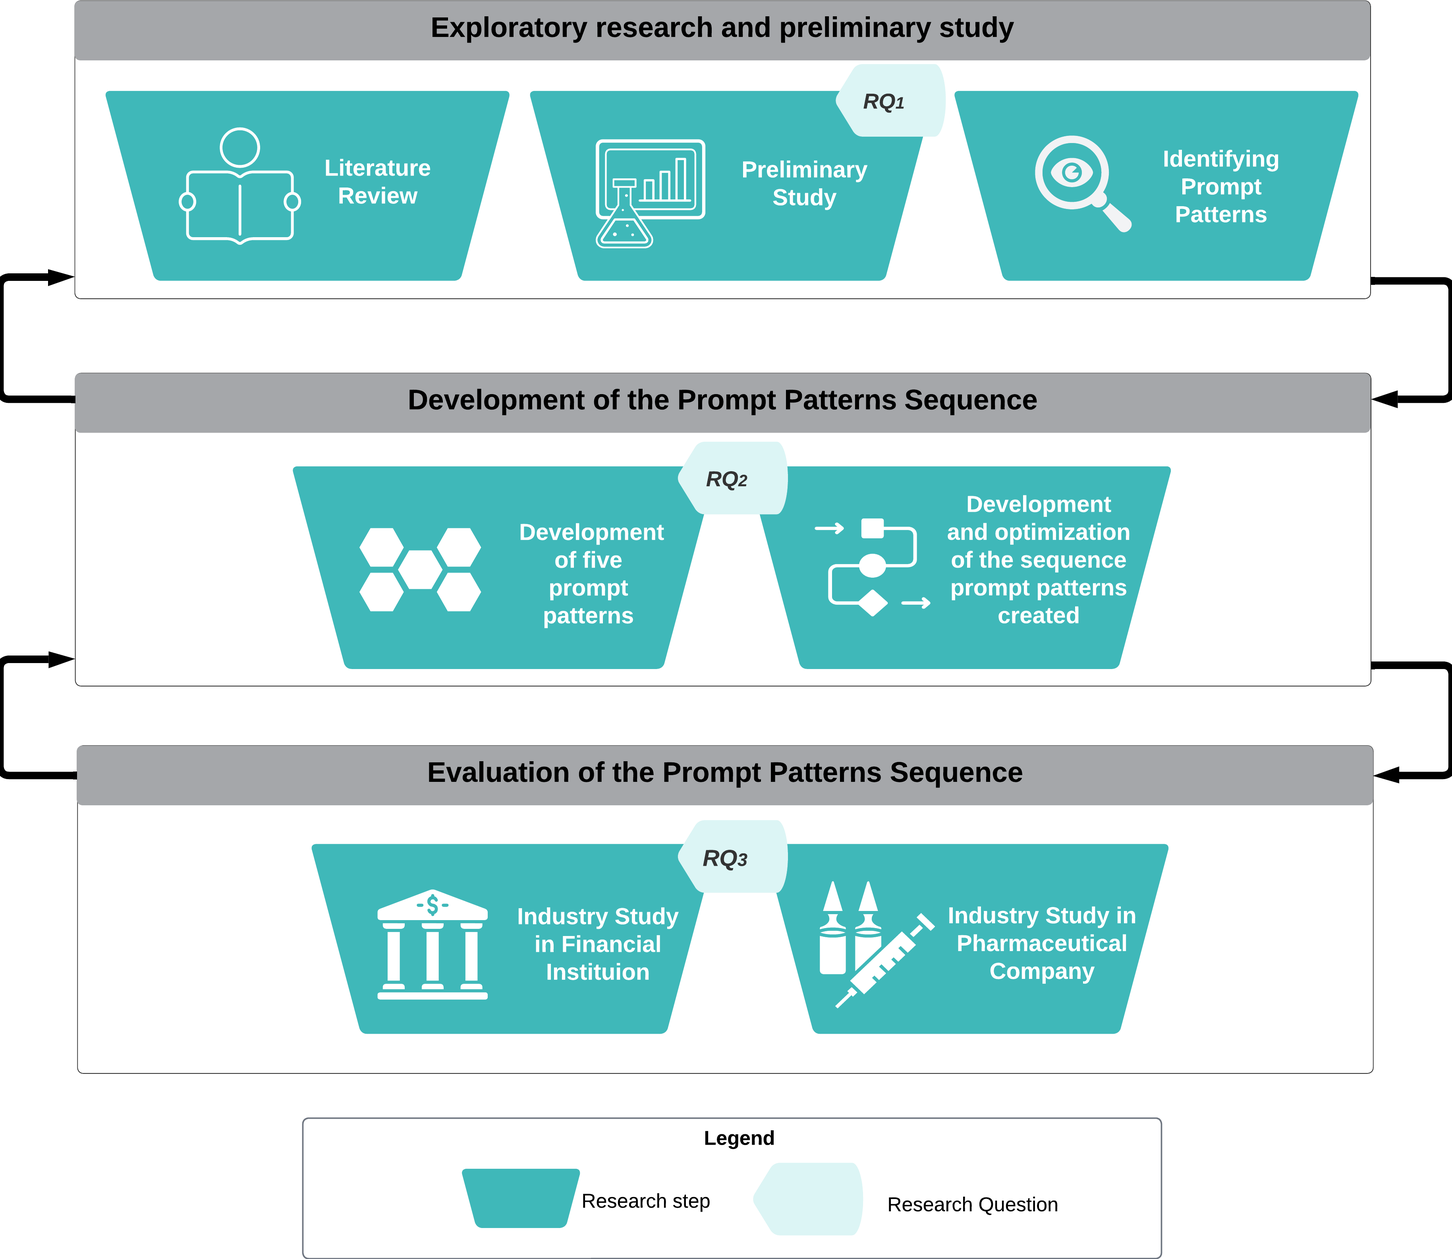
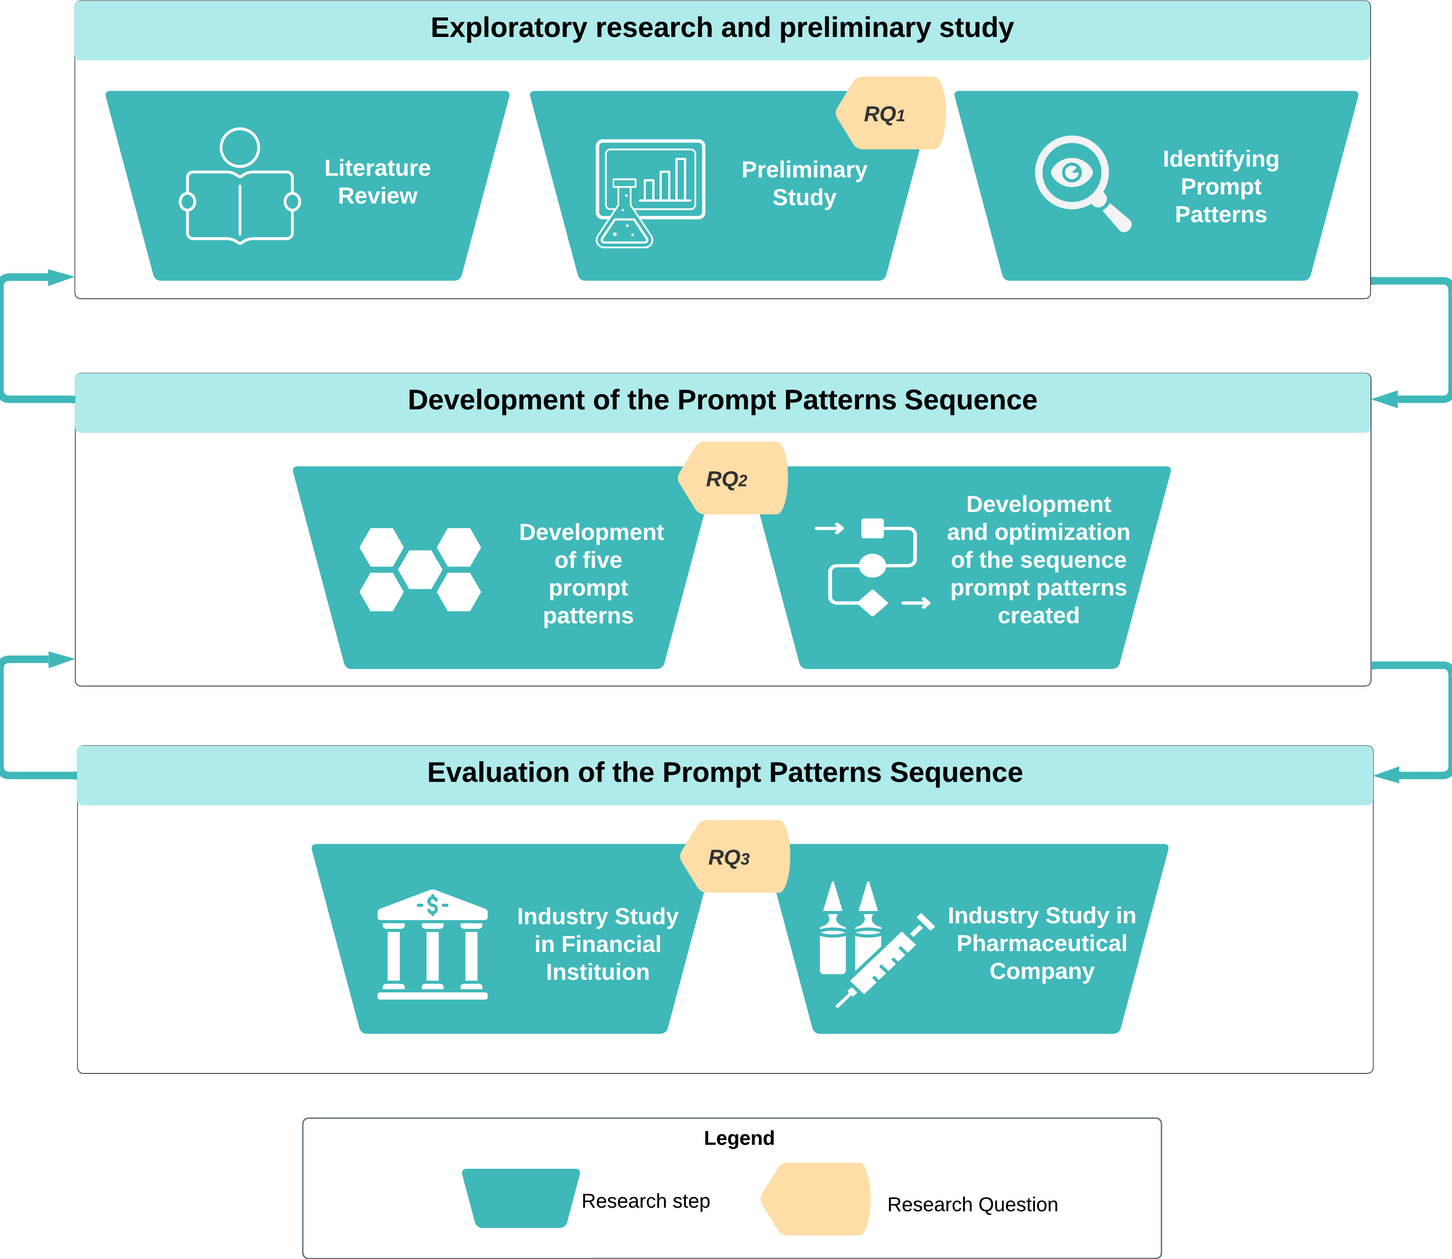
Conclusion

diff --git a/textual/1-introduction.tex b/textual/1-introduction.tex
@@ -57,82 +57,57 @@ The goal of this dissertation is: \textbf{\textit{Evaluating Generative Artifici
 \end{quote}
 
 \section{Methodology}\label{sec:methodology}
-For this master's project, two parts of research are conducted. The first study will explore using pre-trained generative AI tools to automatically select design patterns in a specific context. This will help us better understand how this new technology behaves when presented with a problem. The second study will use multiple case studies to analyze companies' effectiveness in real-world scenarios.
+The study's methodology is designed to assess the use of generative AI tools, specifically GPT models, to enhance decision-making processes in software architecture. The methodology consists of several phases, each contributing to evaluating generative AI tools' practical applicability and effectiveness in real-world scenarios. Figure~\ref{fig-methodology} provides an overview of the methodology linking the research questions.
 
-The literature review played a pivotal role in shaping the direction of our research project, inspiring the approach for both phases of investigation. We gained valuable insights into the field's current state by delving into relevant literature on design decision-making, design patterns, and AI-assisted tools. This comprehensive understanding of the subject helped us identify useful generative AI tools and provided the groundwork for the concept of automatic design pattern selection.
-
-We conducted a preliminary study to determine the effectiveness of AI tools in helping developers make design decisions. Specifically, we utilized ChatGPT to assess its ability to provide accurate answers and ensure that its suggestions included all required elements for a given pattern. Additionally, we tested whether incorrect responses from the AI could potentially mislead developers.
-
-Based on the positive results from our preliminary study, we plan to move forward with multiple case studies in five distinct phases, shown in Figure~\ref{fig-methodology}.
-
-% Inicio Figura1 ---------------------------
 \begin{figure}[ht]
-\caption{Overview of the methodology adopted for AI-Assisted Design Decision Research.}
+\caption{Overview of the methodology.}
 \centering
 \label{fig-methodology}
-\includegraphics[width=0.97 \textwidth]{figures/methodology.png}
+\includegraphics[width=1.0 \textwidth]{figures/methodology.png}
 \objectsource{\objectsourceauthor}
 \end{figure}
-% Fim Figura1 ---------------------------
 
 
-\begin{enumerate}
-    
-\item \textbf{Recruitment} - in this phase, we aim to select at least three companies to participate in our study. The selection process will prioritize diversity across various businesses, providing a wide range of perspectives and enhancing our results.
 
-\item \textbf{Design Decision Collection} - focused on Collecting Design Decisions We will identify a critical decision related to architecture or software for each participating company. This decision must be an essential and challenging one to test the capabilities of language models accurately. Together with the enterprise's software architect, we will formulate a question encompassing an application scenario and all the significant factors influencing the decision-making process.
+The research begins with an exploratory phase that examines the utility of generative AI tools in identifying and selecting design patterns. This phase involves a literature review to gather insights into existing design pattern selection methodologies and the integration of AI tools into these processes. A preliminary study using ChatGPT to assess its accuracy and efficiency in suggesting design patterns applicable to various software design challenges is conducted. This initial exploration is crucial for developing strategies to maximize the potential of AI tools in decision-making. Additionally, identifying prompt patterns that can guide the AI tool's response generation to the most relevant and contextually appropriate design patterns is a crucial aspect of directing AI capabilities in a way that aligns with specific architectural needs.
 
-\item  \textbf{Specification Capture} - we will Capture Specifications using prompt engineering techniques to formulate questions for three AI tools that use Large Language Models. The responses generated by the language models will be carefully evaluated, and the relevant materials will be prepared for further analysis and presentation.
+After gathering information in the initial phase, the research moves on to creating and refining prompt patterns. Five specific prompt patterns are developed to address common queries during software architectural decision-making. These patterns aim to capture the complexities of the design issues. It is essential to optimize the sequence in which these prompt patterns are presented to the AI tool. This optimization ensures that responses are accurate and logically organized, making understanding the AI's guidance easier.
 
-\item  \textbf{Solution Presentation} - focuses on presenting the solution. Proposed solutions will be presented to the company's architect in an interview format. We will measure the solution's suitability for the system, assessing how the proposed solution could be implemented. This feedback will be invaluable in refining our understanding of the language model's capability and effectiveness in real-world scenarios.
-    
-\item \textbf{Data Analysis} - we will analyze the data. During this step, we will apply Open Coding qualitative analysis techniques to analyze the three AI tools' responses, collected specifications, and interview feedback on the proposed solution. This rigorous analysis will elucidate patterns, highlight discrepancies, and reveal insights into the usefulness and applicability of language models in architectural and software design decision-making.
-\end{enumerate}
-
-\MyParaBold{Advantages of This Approach Methodology:}
-\begin{enumerate}
-    \item \textbf{Bridging Theoretical Exploration and Practical Application:} This methodology offers insights into how emerging technologies could enhance architectural decision-making by speculatively evaluating the impact of generative AI and prompt patterns on past decisions. This bridges the gap between theory and practice, providing academic and practical value.
-
-    \item \textbf{Dynamic Engagement:} Unlike traditional methodologies that rely heavily on documentation, this approach allows for a more interactive and reflective examination of past decisions, enriching the analysis with hypothetical scenarios that blend real-world experiences with theoretical possibilities.
-
-    \item \textbf{Prompt Patterns Integration:} The focus on AI-generated prompt patterns emphasizes the study's contribution to discussions about integrating emerging technologies into architectural practices. This advances academic understanding and is a practical guide for incorporating new tools into decision-making processes.
-    
-    \item \textbf{Flexibility and Innovation:} This methodology showcases the flexibility of empirical research methods in software engineering by adapting and combining elements from different approaches to suit specific research objectives, highlighting the potential of empirical research in the field.  
-\end{enumerate}
-
-
+The final phase evaluates the effectiveness of the sequence of prompt patterns developed through two industry studies in different sectors (financial institutions and pharmaceuticals) to assess this approach's practical benefits and implementation in real-world contexts. These studies are essential in validating theoretical models against real industry challenges and scenarios. Iterative validation of research steps against designed research questions anchors each phase within the study objectives, ensuring that the methodology remains focused and aligned with the overall research objectives.
 
 \section{Originality}\label{sec:originality}
-The originality of this master's work lies in exploring and evaluating the potential of AI-assisted tools in software design decision-making. Here, the research emphasizes assessing how software development professionals perceive the use of AI tools within the software development cycle; despite the broad integration of AI in various aspects of software engineering, it has yet to be examined thoroughly in this specific context.
+Five new architectural prompt patterns, sensitive to context, were developed and linked to a sequence of prompt patterns. Each step in this sequence is an architectural situation that addresses a given problem and assists architects with information for their architectural decisions. This approach can expand the usefulness of generative AI beyond its conventional applications.
 
-This work also stands out for its focus on evaluating unsupervised AI tools, such as ChatGPT, through the preliminary study to design pattern suggestions. Most current pattern selection approaches require specialized training or knowledge. However, the preliminary study approach employs AI tools that do not require such stringent prerequisites. This perspective offers relatively new insight into the field of software engineering.
-
-Furthermore, this research analyses the interaction of AI and human experience, where both elements combine to create a unique collaborative approach to decision-making in software design. This work promises to shed light on the potential synergies and challenges arising from this combination, a facet of software development that has not been explored in great detail before.
-
-The empirical nature of this research provides an additional layer of originality as it sets out to offer valuable evidence on the productivity of software architects when they engage with AI tools. Considering the relative scarcity of empirical data in the domain of AI in software design decision-making, its study can fill a significant gap.
-
-Finally, its focus on understanding the sociotechnical aspects of AI architecture brings perspective to the challenges of automated and collaborative software engineering. By assigning the same importance to software design and development's social and technical aspects, this work is expected to offer critical insights that need to be more widely addressed in the existing literature.
+An existing gap in work involving generative AI in architectural decision-making is the participation of the Architect in research. This research conducted industry studies that collect feedback from software architects, providing a practical assessment of the effectiveness and applicability of generative AI decision-making that enriches academic discourse with insights from real-world applications and identifies opportunities to refine AI tools to meet the differentiated needs of software architecture better.
 
 \section{Relevance}\label{sec:relevance}
-\textbf{From an industry perspective}, applying AI-assisted tools for decision-making in software projects promises significant improvements in the software development process. By identifying and recommending appropriate design patterns, software developers can save crucial time and resources, streamlining their workflows and ensuring shorter development cycles and accelerated time-to-market for software products.
+This master's work introduces an innovative approach to integrating generative artificial intelligence (AI), specifically GPT models, into software architectural decision-making. Through developing and applying a sequence of prompt patterns, the study proposes a structured method to guide AI tools to offer design suggestions, aiming to improve quality and efficiency in software development.
 
-This efficiency gain is supported by the subsequent improvement in code quality that these tools promise. Design patterns are vital to ensure code modularity, maintainability, scalability, critical software quality, and robust components. By helping developers select the most suitable patterns for specific scenarios, these AI-assisted tools not only help improve the initial quality of the software product but also simplify its long-term maintenance. A review of the relevant literature and the results of preliminary studies indicate that pattern selection aided by pre-trained generative AI can outperform conventional selection methods in accuracy and efficiency.
+The relevance of this work stands out for its academic and practical contribution, testing and validating the approach in real scenarios and offering valuable insights into the application, effectiveness, and limitations of generative AI tools in software architecture.
 
-Additionally, these tools are invaluable in supporting junior developers. With limited experience in software design, these individuals can significantly benefit from the detailed explanations and solutions offered by AI-assisted tools. Such assistance can accelerate learning, allowing these developers to make informed design decisions early in their careers.
-
-Communication can be more challenging when working remotely due to the lack of face-to-face interaction and possible time zone differences. This can make it difficult to discuss and design decision-making. AI-assisted tools can facilitate this process by recommending appropriate decisions, reducing the need for extensive deliberations, and increasing efficiency.
-
-\textbf{From an academic perspective}.The project bridges the gap between academic theory and practical application, providing valuable insights through real-life exercises and case studies. These insights can be implemented directly into software development to improve decision-making processes. The study also identifies areas where AI tools need improvement, allowing researchers and developers to focus on improving these tools. This research may inspire exploration of other fields where AI can be utilized for complex decision-making tasks like a prompt engineer, leading to broader use of this technology.
+Finally, facilitating the learning and adopting software design patterns is a vital advantage of this work. By simplifying the selection and application of these patterns, the approach can be a valuable educational tool for budding software architects and help development teams incorporate design best practices more effectively and efficiently. This aspect not only promotes continued education within the software development community but also encourages the adoption of innovative practices that can lead to higher-quality software products.
 
 \section{Organization}\label{sec:organization}
-\begin{quote}
-The rest of this document is structured as follows: 
-\end{quote}
 
-\begin{itemize}
-    
-\item Chapter~\ref{ch:literature-review} - Literature Review: This chapter provides valuable information about an overview of Artificial Intelligence, Prompt Engineering for Generative, Few-Shot Learning, and various approaches to selecting design patterns, revealing a gap in the absence of generative AIs to discover such design patterns.
- 
- \item Chapter~\ref{ch:preliminar-study} - The Preliminary Study: This chapter uses pre-trained AI tools to automatically select design patterns in a specific context. It assesses the accuracy of AI-generated responses and their potential to guide developers effectively.
+\MyParaText{The rest of this document is structured as follows:}
 
-\end{itemize}
+\textbf{Chapter~\ref{ch:literature-review} - Literature Review:}
+The literature review covers various topics, from the evolution of AI and large-scale language models to engineering prompts for generative AI and AI tools for developers. It also explores software patterns, including the origin of pattern theory, Gang of Four design patterns, and design pattern selection methods.
+
+\textbf{Chapter~\ref{ch:preliminar-study} - Preliminary Design Pattern Selection Study: }This chapter describes a preliminary study focused on using generative AI tools to select design patterns in a specific context automatically. The study evaluates the accuracy and potential of these tools to effectively guide developers in choosing design patterns.
+
+\textbf{Chapter~\ref{ch:prompt-patterns} - Prompt Approach to Architectural Decisions: } This chapter presents a general description of the proposed approach, detailing the patterns used, the design process, and the specific prompt patterns developed to assist in making software architecture decisions. A fictional scenario demonstrates the application of the prompt pattern sequence.
+
+\textbf{Chapter~\ref{ch:industry-use-cases} - Industry Study: }
+Industrial research investigates the applicability and effectiveness of the prompt pattern sequence approach in real-world scenarios, including a case study at a financial institution. Analysis of the results highlights this approach's practical benefits and implementation in real contexts.
+
+\textbf{Chapter~\ref{ch:conclusion} - Conclusion: }
+The final chapter summarizes the main contributions of the dissertation, including the development of five new prompt patterns, the sequence of prompt patterns to assist in architectural decision-making, and the practical validation of the proposed approach through industry studies. Future work is also discussed, pointing to the need for additional research to explore further the potential of generative AI tools in software architecture.
+
+
+
+
+
+
+
+

diff --git a/textual/6-conclusion.tex b/textual/6-conclusion.tex
@@ -1,4 +1,23 @@
+This chapter concludes the thesis by presenting a comprehensive conclusion and a retrospective of the work, enriched by the answers to the three research questions initially formulated. Initially, we revisit the central research questions and evaluate the results obtained by implementing the Prompt Pattern Sequence. Next, we highlight the main contributions of this study.
+
+The emergence of generative Artificial Intelligence (AI) has brought new opportunities for collaboration between AI tools and software architects. In this context, it is essential to understand how these technologies can be effectively incorporated into the architectural decision-making process and identify their potential and limitations. To this end, this research explored generative AI tools, mainly through a sequence of prompt patterns, to assist software architects in their design decisions.
+
+Answering \textbf{\textit{RQ\textsubscript{1}}}, it was evidenced that generative AI tools can be remarkably efficient and accurate in solving software design problems when guided adequately by prompt patterns(Chapter 3). This effectiveness demonstrates the potential of such tools to be collaboratively incorporated into the decision-making process in software architecture.
+
+Regarding \textbf{\textit{RQ\textsubscript{2}}}, the study developed and evaluated a sequence of prompt patterns that effectively guided AI tools in assisting architectural decisions. The construction and evaluation of the Prompt Pattern Sequence(Chapter 4) were carried out iteratively and incrementally based on literature reviews, discussions with software architecture experts, and an empirical study in the industry.
+
+Finally, when addressing \textbf{\textit{RQ\textsubscript{3}}}, applying this sequence was empirically evaluated in two distinct industrial contexts: a financial institution and a pharmacy chain. The analysis of these scenarios and the evaluations made by the participants confirmed the usefulness and general satisfaction with implementing the five prompt patterns and the proposed sequence, highlighting their potential to optimize software architecture decision-making(Chapter 5).
+
 \section{Contributions}
-  \lipsum[1]
+The implementation and evaluation of the Prompt Pattern Sequence showed promising results, highlighting the tool's ability to provide relevant assistance to software architects. However, there are opportunities for improvement, such as eliminating global summaries of prompts that can dilute the accuracy of responses and refine generic responses that occasionally appear out of context. These improvements aim to increase the specificity and relevance of AI-generated suggestions, ensuring that the answers directly apply to the architectural problems.
+
+Another relevant contribution of this research is the systematic method proposed for analyzing the Prompt Pattern Sequence in architectural decision-making. This method provides a framework for evaluating how different prompt patterns can influence decision-making and identifying the benefits and potential challenges of adopting specific prompt sequences. Practical application and empirical evaluation of this method in real-world scenarios provided valuable insights, paving the way for future refinements and additional validations.
+
+Although initial results have been encouraging, the importance of continuing research in this area is recognized. Further investigations are needed to expand the understanding of how generative AI tools can be more effectively applied to software architecture. Specifically, subjecting the proposed method to new validation steps in varied contexts is essential, aiming to improve its applicability and robustness.
+
+Other relevant contributions directly or indirectly related to this thesis are:
+
+\subsection{Submitted Papers}
+  
 \section{Future Work}
-  \lipsum[1]
+Throughout the development of this research, we identified some gaps and opportunities for further research. Below, we describe each of them:

diff --git a/textual/5-industry-use-cases.tex b/textual/5-industry-use-cases.tex
@@ -31,12 +31,12 @@ This approach involves learning from the past and understanding how new technolo
 
 \MyParaBold{Design Process}
 
-The study, which took place from October 2023 to March 2024, followed a methodology consisting of five distinct steps, as illustrated in Figure~\ref{industry-use-case}. It strategically recruited companies from various sectors to ensure diverse and widely applicable research findings. The selection of companies was guided by specific criteria such as industrial sector, size, complexity, and architectural challenges, laying a solid foundation for evaluating prompt pattern sequences in real-world scenarios.
+The study, which took place from October 2023 to March 2024, followed a methodology consisting of five distinct steps, as illustrated in Figure~\ref{research-method}. It strategically recruited companies from various sectors to ensure diverse and widely applicable research findings. The selection of companies was guided by specific criteria such as industrial sector, size, complexity, and architectural challenges, laying a solid foundation for evaluating prompt pattern sequences in real-world scenarios.
 
 \begin{figure}[!ht]
     \centering
-    \caption{\centering Research Method Steps.}\label{industry-use-case}
-    \includegraphics[width=1.0\textwidth]{figures/research-design-industry-use-cases.png}
+    \caption{\centering Research Method Steps.}\label{research-method}
+    \includegraphics[width=1.0\textwidth]{figures/research-method.png}
     \objectsource{\objectsourceauthor}
 \end{figure}
 
